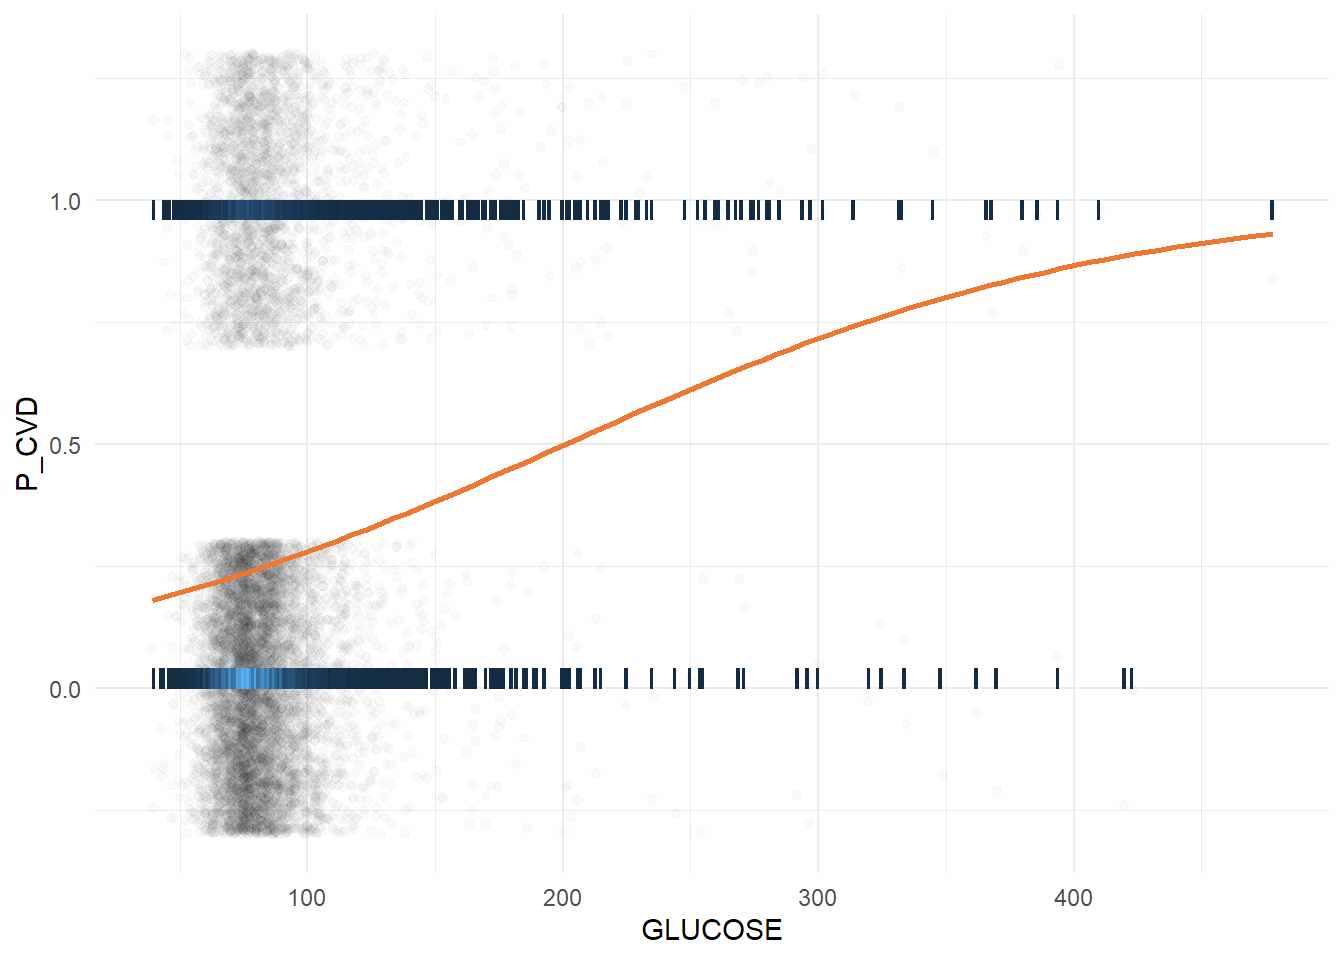
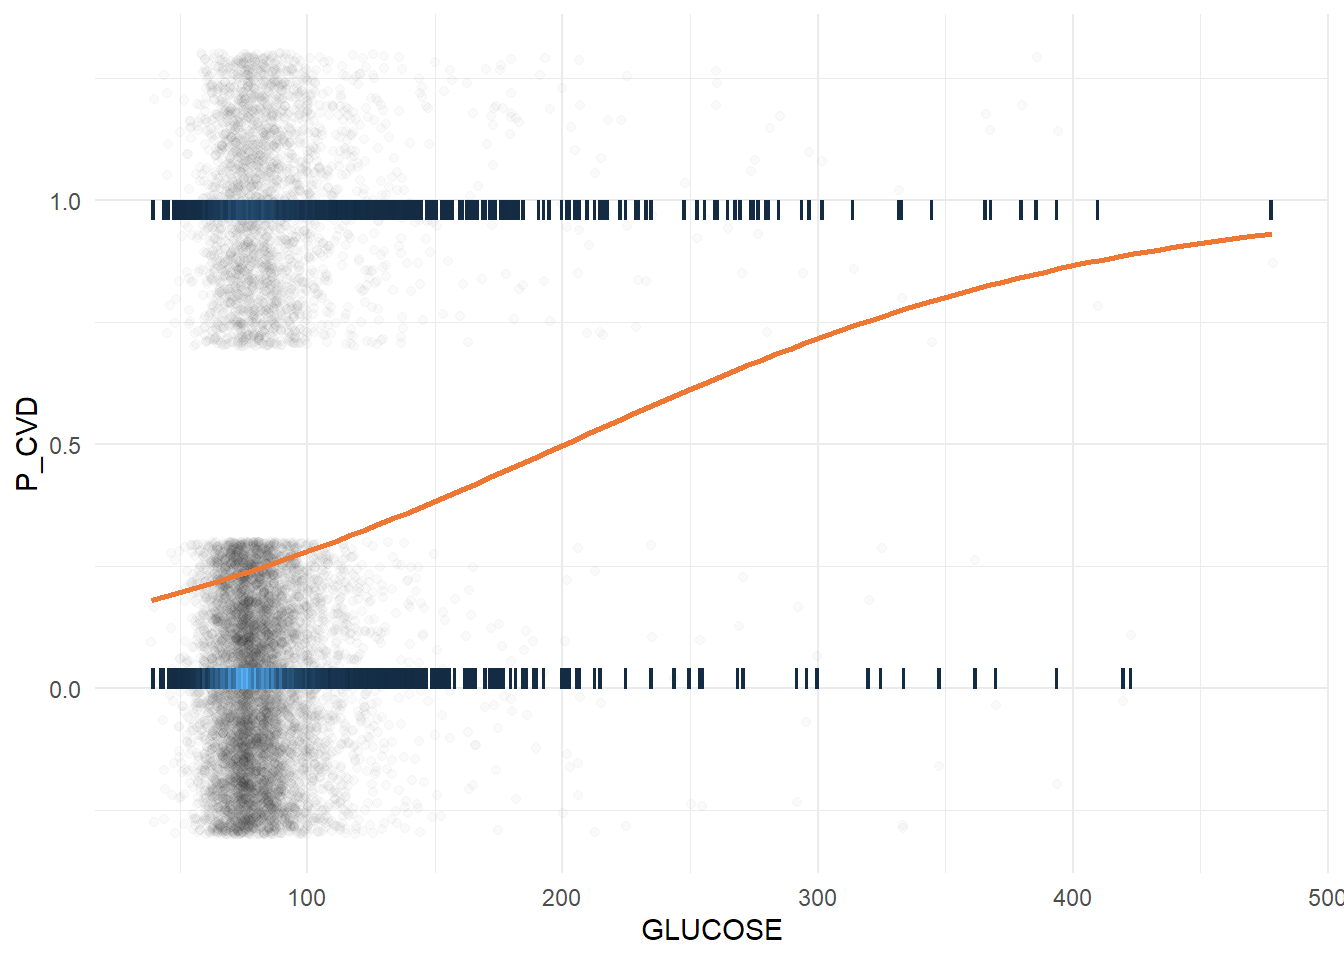
10000 Iterationen 2.

diff --git a/docs/analyse.html b/docs/analyse.html
@@ -143,7 +143,7 @@ code span.wa { color: #60a0b0; font-weight: bold; font-style: italic; } /* Warni
 <p>Wir definieren einige globale Variablen zur Kontrolle des Bootstrapping-Verfahrens:</p>
 <div class="cell">
 <div class="sourceCode cell-code" id="cb2"><pre class="sourceCode r code-with-copy"><code class="sourceCode r"><span id="cb2-1"><a href="#cb2-1" aria-hidden="true" tabindex="-1"></a>const.seed <span class="ot">&lt;-</span> <span class="dv">69420</span></span>
-<span id="cb2-2"><a href="#cb2-2" aria-hidden="true" tabindex="-1"></a>boot.rep <span class="ot">&lt;-</span> <span class="dv">100</span></span></code><button title="Copy to Clipboard" class="code-copy-button"><i class="bi"></i></button></pre></div>
+<span id="cb2-2"><a href="#cb2-2" aria-hidden="true" tabindex="-1"></a>boot.rep <span class="ot">&lt;-</span> <span class="dv">10000</span></span></code><button title="Copy to Clipboard" class="code-copy-button"><i class="bi"></i></button></pre></div>
 </div>
 <p>Zusätzlich definieren wir Helferfunktionen zum Export unserer Plots für die Präsentation:</p>
 <div class="cell">
@@ -426,19 +426,19 @@ F-statistic: 946.5 on 1 and 11573 DF,  p-value: &lt; 2.2e-16</code></pre>
 <span id="cb19-3"><a href="#cb19-3" aria-hidden="true" tabindex="-1"></a><span class="fu">summary</span>(hyp1_boot)</span></code><button title="Copy to Clipboard" class="code-copy-button"><i class="bi"></i></button></pre></div>
 <div class="cell-output cell-output-stdout">
 <pre><code>   Intercept           BMI            sigma         r.squared      
- Min.   : 92.91   Min.   :1.398   Min.   :21.18   Min.   :0.06507  
- 1st Qu.: 96.11   1st Qu.:1.491   1st Qu.:21.76   1st Qu.:0.07159  
- Median : 96.93   Median :1.523   Median :21.88   Median :0.07489  
- Mean   : 96.87   Mean   :1.523   Mean   :21.89   Mean   :0.07531  
- 3rd Qu.: 97.63   3rd Qu.:1.555   3rd Qu.:22.03   3rd Qu.:0.07924  
- Max.   :100.04   Max.   :1.677   Max.   :22.32   Max.   :0.08898  
-       F              numdf       dendf            .row       .index      
- Min.   : 805.4   Min.   :1   Min.   :11573   Min.   :1   Min.   :  1.00  
- 1st Qu.: 892.4   1st Qu.:1   1st Qu.:11573   1st Qu.:1   1st Qu.: 25.75  
- Median : 936.8   Median :1   Median :11573   Median :1   Median : 50.50  
- Mean   : 943.0   Mean   :1   Mean   :11573   Mean   :1   Mean   : 50.50  
- 3rd Qu.: 995.9   3rd Qu.:1   3rd Qu.:11573   3rd Qu.:1   3rd Qu.: 75.25  
- Max.   :1130.4   Max.   :1   Max.   :11573   Max.   :1   Max.   :100.00  </code></pre>
+ Min.   : 92.14   Min.   :1.337   Min.   :21.15   Min.   :0.05722  
+ 1st Qu.: 95.92   1st Qu.:1.490   1st Qu.:21.76   1st Qu.:0.07194  
+ Median : 96.82   Median :1.525   Median :21.89   Median :0.07550  
+ Mean   : 96.83   Mean   :1.525   Mean   :21.89   Mean   :0.07560  
+ 3rd Qu.: 97.74   3rd Qu.:1.560   3rd Qu.:22.02   3rd Qu.:0.07921  
+ Max.   :101.81   Max.   :1.704   Max.   :22.61   Max.   :0.09424  
+       F              numdf       dendf            .row       .index     
+ Min.   : 702.5   Min.   :1   Min.   :11573   Min.   :1   Min.   :    1  
+ 1st Qu.: 897.0   1st Qu.:1   1st Qu.:11573   1st Qu.:1   1st Qu.: 2501  
+ Median : 945.1   Median :1   Median :11573   Median :1   Median : 5000  
+ Mean   : 946.9   Mean   :1   Mean   :11573   Mean   :1   Mean   : 5000  
+ 3rd Qu.: 995.5   3rd Qu.:1   3rd Qu.:11573   3rd Qu.:1   3rd Qu.: 7500  
+ Max.   :1204.2   Max.   :1   Max.   :11573   Max.   :1   Max.   :10000  </code></pre>
 </div>
 </div>
 <p>Wir ermitteln das Konfidenzintervall (<span class="math inline">\(\alpha = 1\%\)</span>) der Bootstrapverteilung:</p>
@@ -446,7 +446,7 @@ F-statistic: 946.5 on 1 and 11573 DF,  p-value: &lt; 2.2e-16</code></pre>
 <div class="sourceCode cell-code" id="cb21"><pre class="sourceCode r code-with-copy"><code class="sourceCode r"><span id="cb21-1"><a href="#cb21-1" aria-hidden="true" tabindex="-1"></a><span class="fu">qdata</span>(<span class="sc">~</span> BMI, <span class="at">data=</span>hyp1_boot, <span class="at">p=</span><span class="fu">c</span>(<span class="fl">0.005</span>, <span class="fl">0.995</span>))  </span></code><button title="Copy to Clipboard" class="code-copy-button"><i class="bi"></i></button></pre></div>
 <div class="cell-output cell-output-stdout">
 <pre><code>    0.5%    99.5% 
-1.406569 1.666349 </code></pre>
+1.390776 1.660415 </code></pre>
 </div>
 </div>
 <p>Wir berechnen eine Nullverteilung:</p>
@@ -457,19 +457,19 @@ F-statistic: 946.5 on 1 and 11573 DF,  p-value: &lt; 2.2e-16</code></pre>
 <span id="cb23-4"><a href="#cb23-4" aria-hidden="true" tabindex="-1"></a><span class="fu">summary</span>(hyp1_nulldist)</span></code><button title="Copy to Clipboard" class="code-copy-button"><i class="bi"></i></button></pre></div>
 <div class="cell-output cell-output-stdout">
 <pre><code>   Intercept          BMI                 sigma         r.squared        
- Min.   :132.5   Min.   :-0.1249937   Min.   :22.30   Min.   :0.000e+00  
- 1st Qu.:135.4   1st Qu.:-0.0487101   1st Qu.:22.64   1st Qu.:1.024e-05  
- Median :136.3   Median :-0.0008629   Median :22.78   Median :5.240e-05  
- Mean   :136.3   Mean   :-0.0013144   Mean   :22.79   Mean   :1.061e-04  
- 3rd Qu.:137.5   3rd Qu.: 0.0336467   3rd Qu.:22.91   3rd Qu.:1.455e-04  
- Max.   :139.5   Max.   : 0.1369543   Max.   :23.46   Max.   :6.142e-04  
-       F              numdf       dendf            .row       .index      
- Min.   :0.0000   Min.   :1   Min.   :11573   Min.   :1   Min.   :  1.00  
- 1st Qu.:0.1186   1st Qu.:1   1st Qu.:11573   1st Qu.:1   1st Qu.: 25.75  
- Median :0.6064   Median :1   Median :11573   Median :1   Median : 50.50  
- Mean   :1.2277   Mean   :1   Mean   :11573   Mean   :1   Mean   : 50.50  
- 3rd Qu.:1.6846   3rd Qu.:1   3rd Qu.:11573   3rd Qu.:1   3rd Qu.: 75.25  
- Max.   :7.1129   Max.   :1   Max.   :11573   Max.   :1   Max.   :100.00  </code></pre>
+ Min.   :131.1   Min.   :-1.874e-01   Min.   :22.05   Min.   :0.000e+00  
+ 1st Qu.:135.4   1st Qu.:-3.544e-02   1st Qu.:22.64   1st Qu.:8.741e-06  
+ Median :136.3   Median :-5.610e-04   Median :22.77   Median :3.945e-05  
+ Mean   :136.3   Mean   :-4.595e-05   Mean   :22.77   Mean   :8.677e-05  
+ 3rd Qu.:137.2   3rd Qu.: 3.439e-02   3rd Qu.:22.91   3rd Qu.:1.140e-04  
+ Max.   :141.2   Max.   : 1.996e-01   Max.   :23.59   Max.   :1.307e-03  
+       F               numdf       dendf            .row       .index     
+ Min.   : 0.0000   Min.   :1   Min.   :11573   Min.   :1   Min.   :    1  
+ 1st Qu.: 0.1012   1st Qu.:1   1st Qu.:11573   1st Qu.:1   1st Qu.: 2501  
+ Median : 0.4566   Median :1   Median :11573   Median :1   Median : 5000  
+ Mean   : 1.0044   Mean   :1   Mean   :11573   Mean   :1   Mean   : 5000  
+ 3rd Qu.: 1.3199   3rd Qu.:1   3rd Qu.:11573   3rd Qu.:1   3rd Qu.: 7500  
+ Max.   :15.1495   Max.   :1   Max.   :11573   Max.   :1   Max.   :10000  </code></pre>
 </div>
 </div>
 <p>Wir ermitteln das Konfidenzintervall (<span class="math inline">\(\alpha = 1\%\)</span>) der Nullverteilung:</p>
@@ -477,7 +477,7 @@ F-statistic: 946.5 on 1 and 11573 DF,  p-value: &lt; 2.2e-16</code></pre>
 <div class="sourceCode cell-code" id="cb25"><pre class="sourceCode r code-with-copy"><code class="sourceCode r"><span id="cb25-1"><a href="#cb25-1" aria-hidden="true" tabindex="-1"></a><span class="fu">qdata</span>(<span class="sc">~</span> BMI, <span class="at">data=</span>hyp1_nulldist, <span class="at">p=</span><span class="fu">c</span>(<span class="fl">0.005</span>, <span class="fl">0.995</span>))  </span></code><button title="Copy to Clipboard" class="code-copy-button"><i class="bi"></i></button></pre></div>
 <div class="cell-output cell-output-stdout">
 <pre><code>      0.5%      99.5% 
--0.1169046  0.1367032 </code></pre>
+-0.1316818  0.1357474 </code></pre>
 </div>
 </div>
 <p>Anschließend visualisieren wir die Verteilungen:</p>
@@ -653,7 +653,7 @@ Number of Fisher Scoring iterations: 4</code></pre>
 <div class="sourceCode cell-code" id="cb43"><pre class="sourceCode r code-with-copy"><code class="sourceCode r"><span id="cb43-1"><a href="#cb43-1" aria-hidden="true" tabindex="-1"></a><span class="fu">qdata</span>(<span class="sc">~</span> GLUCOSE, <span class="at">data=</span>hyp2_bootlog, <span class="at">p=</span><span class="fu">c</span>(<span class="fl">0.005</span>, <span class="fl">0.995</span>))  </span></code><button title="Copy to Clipboard" class="code-copy-button"><i class="bi"></i></button></pre></div>
 <div class="cell-output cell-output-stdout">
 <pre><code>       0.5%       99.5% 
-0.007025338 0.011719434 </code></pre>
+0.006886176 0.012175292 </code></pre>
 </div>
 </div>
 <p>Wir berechnen eine Nullverteilung:</p>
@@ -666,7 +666,7 @@ Number of Fisher Scoring iterations: 4</code></pre>
 <div class="sourceCode cell-code" id="cb46"><pre class="sourceCode r code-with-copy"><code class="sourceCode r"><span id="cb46-1"><a href="#cb46-1" aria-hidden="true" tabindex="-1"></a><span class="fu">qdata</span>(<span class="sc">~</span> GLUCOSE, <span class="at">data=</span>hyp2_nulllog, <span class="at">p=</span><span class="fu">c</span>(<span class="fl">0.005</span>, <span class="fl">0.995</span>))  </span></code><button title="Copy to Clipboard" class="code-copy-button"><i class="bi"></i></button></pre></div>
 <div class="cell-output cell-output-stdout">
 <pre><code>        0.5%        99.5% 
--0.002101297  0.002130226 </code></pre>
+-0.002564588  0.002302000 </code></pre>
 </div>
 </div>
 <p>Wir ermitteln die Wahrscheinlichkeit, dass der Regressionskoeffizient unserer log. Regression so auftauchen würde, falls <span class="math inline">\(H_{0}\)</span> zuträfe:</p>
